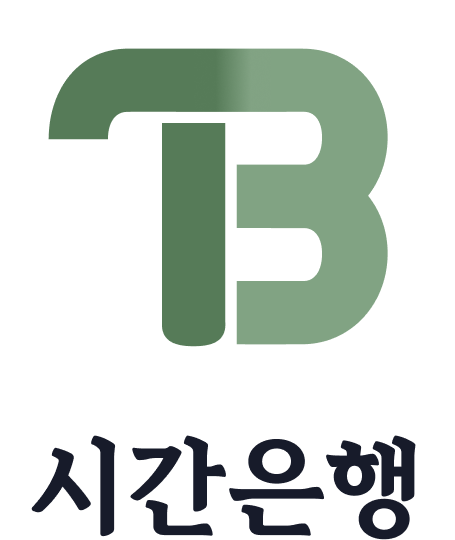
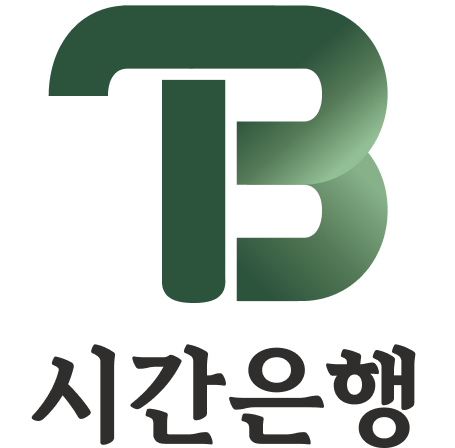
로고 색상 변경

diff --git a/lib/home/home.dart b/lib/home/home.dart
@@ -80,8 +80,8 @@ class _HomeState extends State<Home> {
           Center(
               child: Column(children: [
                 SizedBox(
-                  width: 300,
-                  height: 300,
+                  width: 250,
+                  height: 250,
                   child: Image(
                     image: AssetImage('assets/images/timeBank.png'),
                   ),
